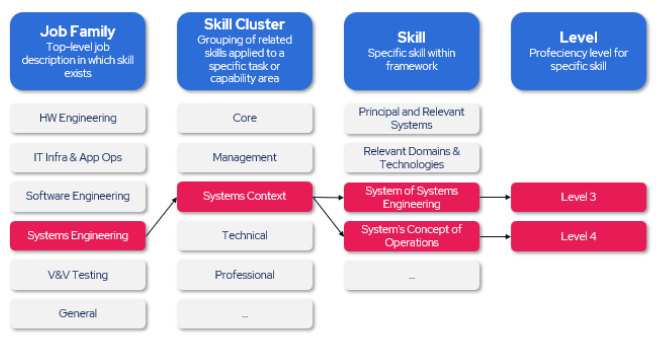
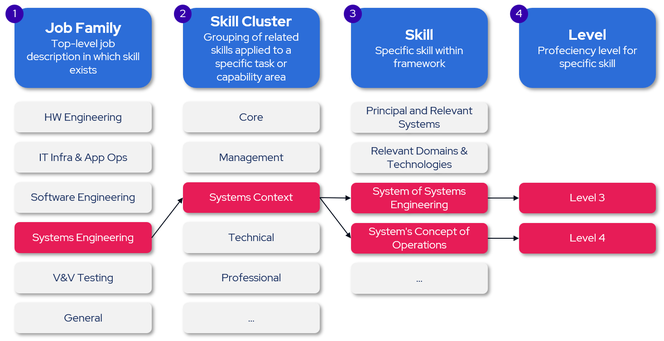
Update survey text and replace skills-structure diagram
- Updated survey purpose text and added proficiency review note
- Replaced skills-structure.png with new version, resized to match original 664x341

diff --git a/survey/cubic-skills-survey/index.html b/survey/cubic-skills-survey/index.html
@@ -26,7 +26,7 @@
       <h1>Cubic Skills Survey</h1>
       <div class="survey-purpose">
         <h2>Survey Purpose</h2>
-        <p>We're building a solution to better understand the skills and experiences of our personnel to better understand the capabilities we're bringing to market. This survey helps us understand the full range of capabilities across our team and your responses will not be used for performance evaluation.</p>
+        <p>We're building a solution to better understand the skills and experiences of our personnel to better understand the capabilities we're bringing to market. This survey helps us understand the full range of capabilities across our team and improve our staffing.</p>
         <p>To start, please confirm your employee ID and primary job family within Cubic.</p>
       </div>
       <table class="form-table">
@@ -68,7 +68,7 @@
         <div class="structure-diagram">
           <img src="skills-structure.png" alt="Skills structure diagram showing Skills Type, Skill Cluster, Skill, and Level hierarchy">
         </div>
-        <p>Finally, proficiencies range from Level 1 to Level 5 based on the following matrix:</p>
+        <p>Finally, proficiencies range from Level 1 to Level 5 based on the following matrix. Self reported skills will be reviewed with managers during performance management cycles going forward.:</p>
         <table class="proficiency-table">
           <thead>
             <tr>
@@ -145,7 +145,7 @@
         <div class="structure-diagram">
           <img src="skills-structure.png" alt="Skills structure diagram showing Skills Type, Skill Cluster, Skill, and Level hierarchy">
         </div>
-        <p>Finally, proficiencies range from Level 1 to Level 5 based on the following matrix:</p>
+        <p>Finally, proficiencies range from Level 1 to Level 5 based on the following matrix. Self reported skills will be reviewed with managers during performance management cycles going forward.</p>
         <table class="proficiency-table">
           <thead>
             <tr>
@@ -221,7 +221,7 @@
         <div class="structure-diagram">
           <img src="skills-structure.png" alt="Skills structure diagram showing Skills Type, Skill Cluster, Skill, and Level hierarchy">
         </div>
-        <p>Finally, proficiencies range from Level 1 to Level 5 based on the following matrix:</p>
+        <p>Finally, proficiencies range from Level 1 to Level 5 based on the following matrix. Self reported skills will be reviewed with managers during performance management cycles going forward.</p>
         <table class="proficiency-table">
           <thead>
             <tr>
@@ -297,7 +297,7 @@
         <div class="structure-diagram">
           <img src="skills-structure.png" alt="Skills structure diagram showing Skills Type, Skill Cluster, Skill, and Level hierarchy">
         </div>
-        <p>Finally, proficiencies range from Level 1 to Level 5 based on the following matrix:</p>
+        <p>Finally, proficiencies range from Level 1 to Level 5 based on the following matrix. Self reported skills will be reviewed with managers during performance management cycles going forward.</p>
         <table class="proficiency-table">
           <thead>
             <tr>
